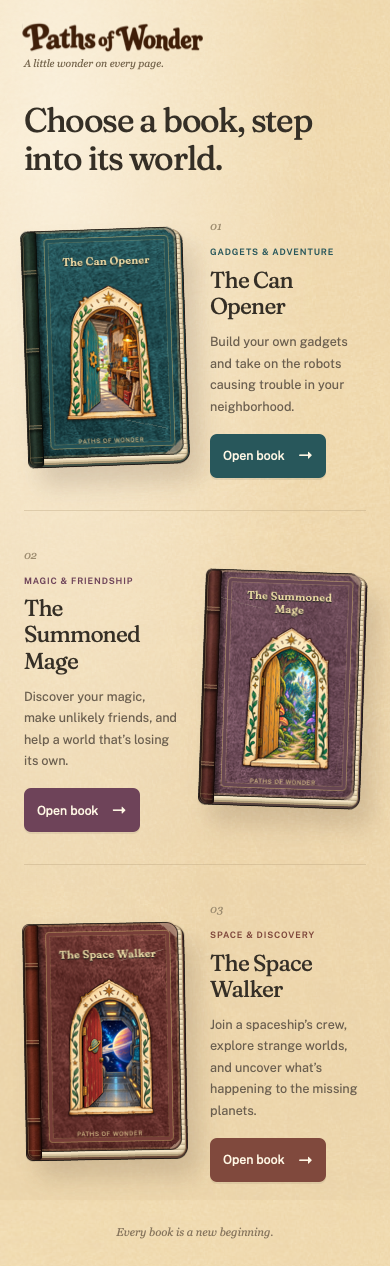
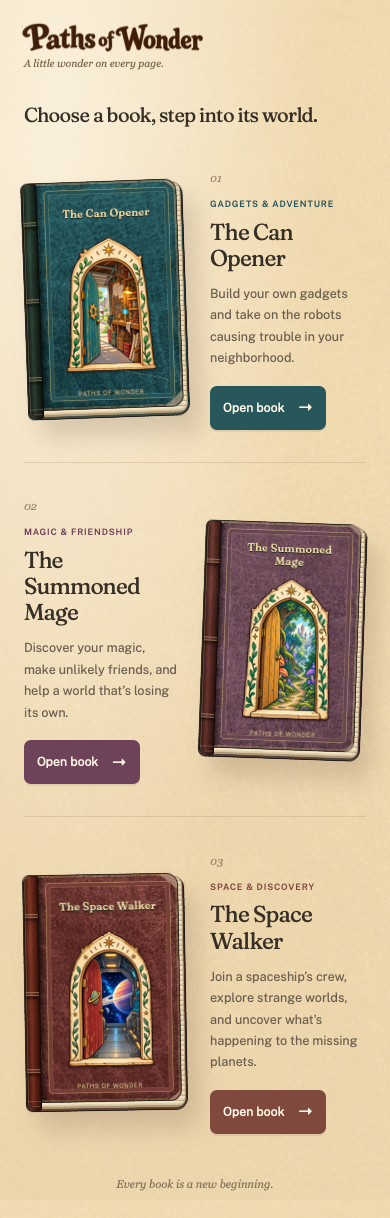
Reduce portal library instruction size

diff --git a/webapp/test/browser/portal-proof/proof.css b/webapp/test/browser/portal-proof/proof.css
@@ -13,4 +13,5 @@
 
 .proof-wordmark{display:block;overflow:hidden;max-width:100%;height:auto}.book-object{container-type:inline-size}.cover-title{font-size:clamp(11px,6.3cqw,24px);padding-top:7%;padding-bottom:2%}.large-type .book-feature{grid-template-columns:1fr!important;gap:25px}.large-type .book-feature .cover-button{grid-column:1;grid-row:1;max-width:210px}.large-type .book-feature .book-details{grid-column:1;grid-row:2}.large-type .book-details h2{font-size:1.6rem}.large-type .book-details .eyebrow{font-size:.65rem}.large-type .book-summary{max-width:none}.large-type .book-shelf{display:block;overflow:visible}.large-type .book-feature{max-width:700px;margin:auto;padding-block:35px}.large-type .shelf-pagination{display:none}.large-type .open-book{display:block}.large-type .welcome-copy{padding:30px 24px}.large-type .welcome-copy h1{font-size:1.65rem;max-width:100%}.large-type .welcome-picture{padding-top:25px}.large-type .welcome-description{max-width:600px}.large-type .welcome-invitation{max-width:500px}.large-type .library-intro h1{font-size:1.5rem;max-width:100%}.large-type .sample-prose h1{font-size:1.5rem}.large-type .read-button{flex-wrap:wrap}.large-type .reading-bar{font-size:.65rem}.large-type .sample-prose>p{overflow-wrap:anywhere}
 
-.library-intro h1{max-width:760px;text-wrap:pretty;}
+.library-intro h1{max-width:760px;text-wrap:pretty;font-size:1.5rem;line-height:1.35;}
+@media(max-width:699px),(max-height:500px){.library-intro h1{font-size:1.25rem;}}

diff --git a/webapp/src/styles/portalBooks.css b/webapp/src/styles/portalBooks.css
@@ -221,4 +221,5 @@
  .portal-design .welcome-copy h1 { max-width:100%; }
 }
 
-.portal-design .library-intro h1{max-width:760px;text-wrap:pretty;}
+.portal-design .library-intro h1{max-width:760px;text-wrap:pretty;font-size:1.5rem;line-height:1.35;}
+@media(max-width:699px),(max-height:500px){.portal-design .library-intro h1{font-size:1.25rem;}}
